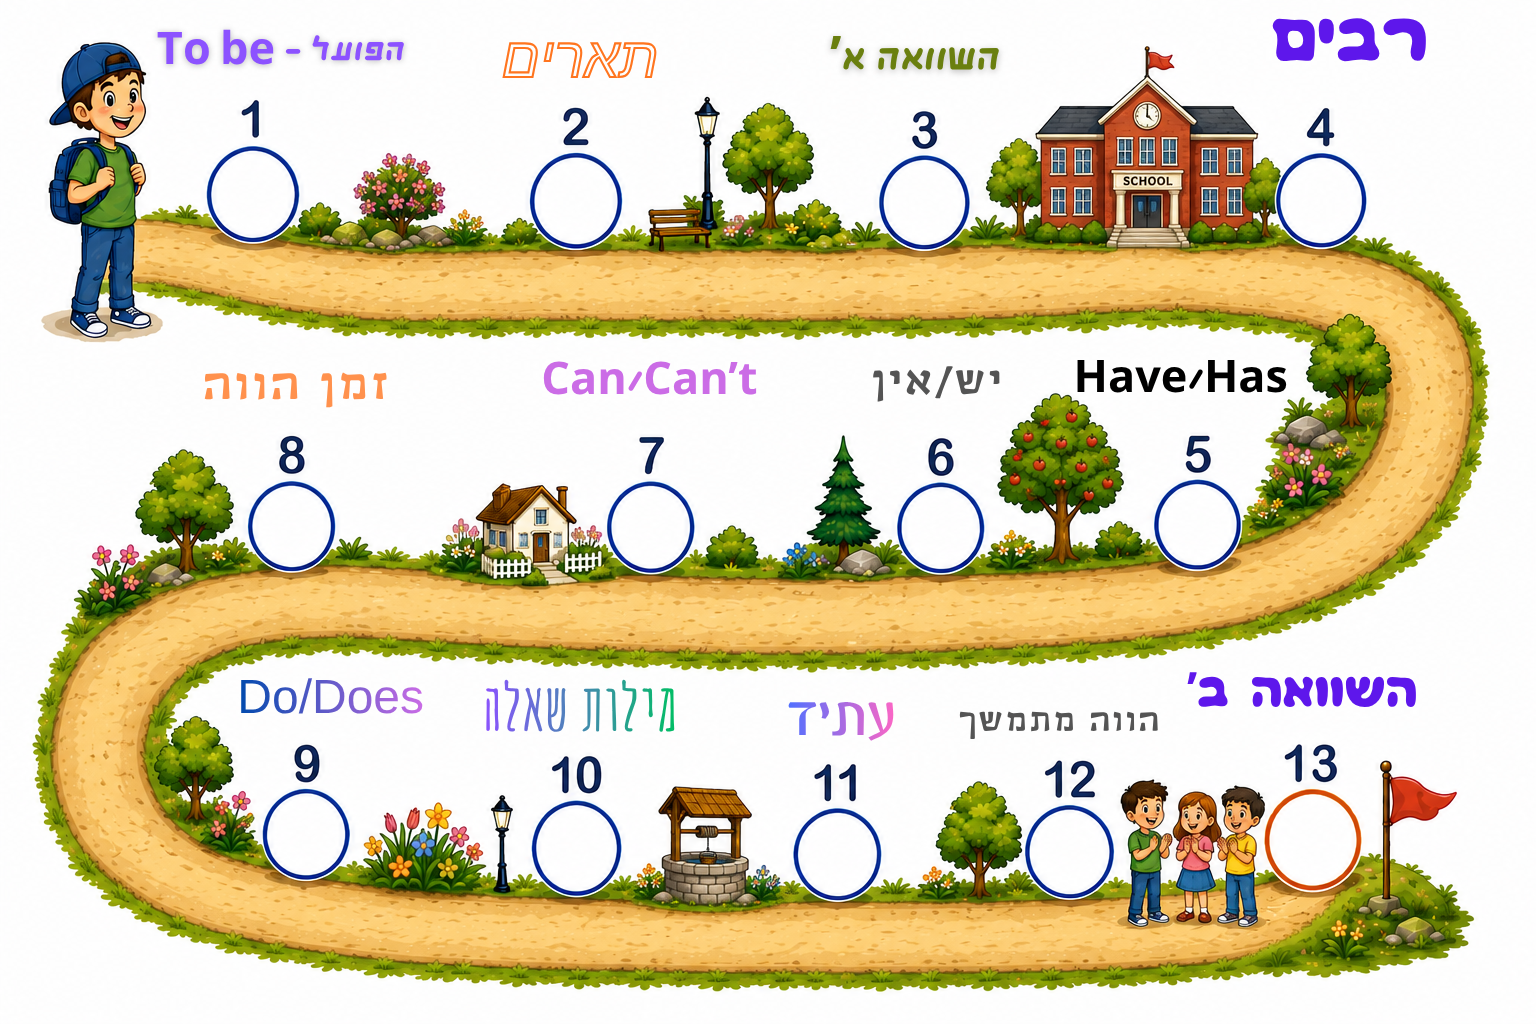
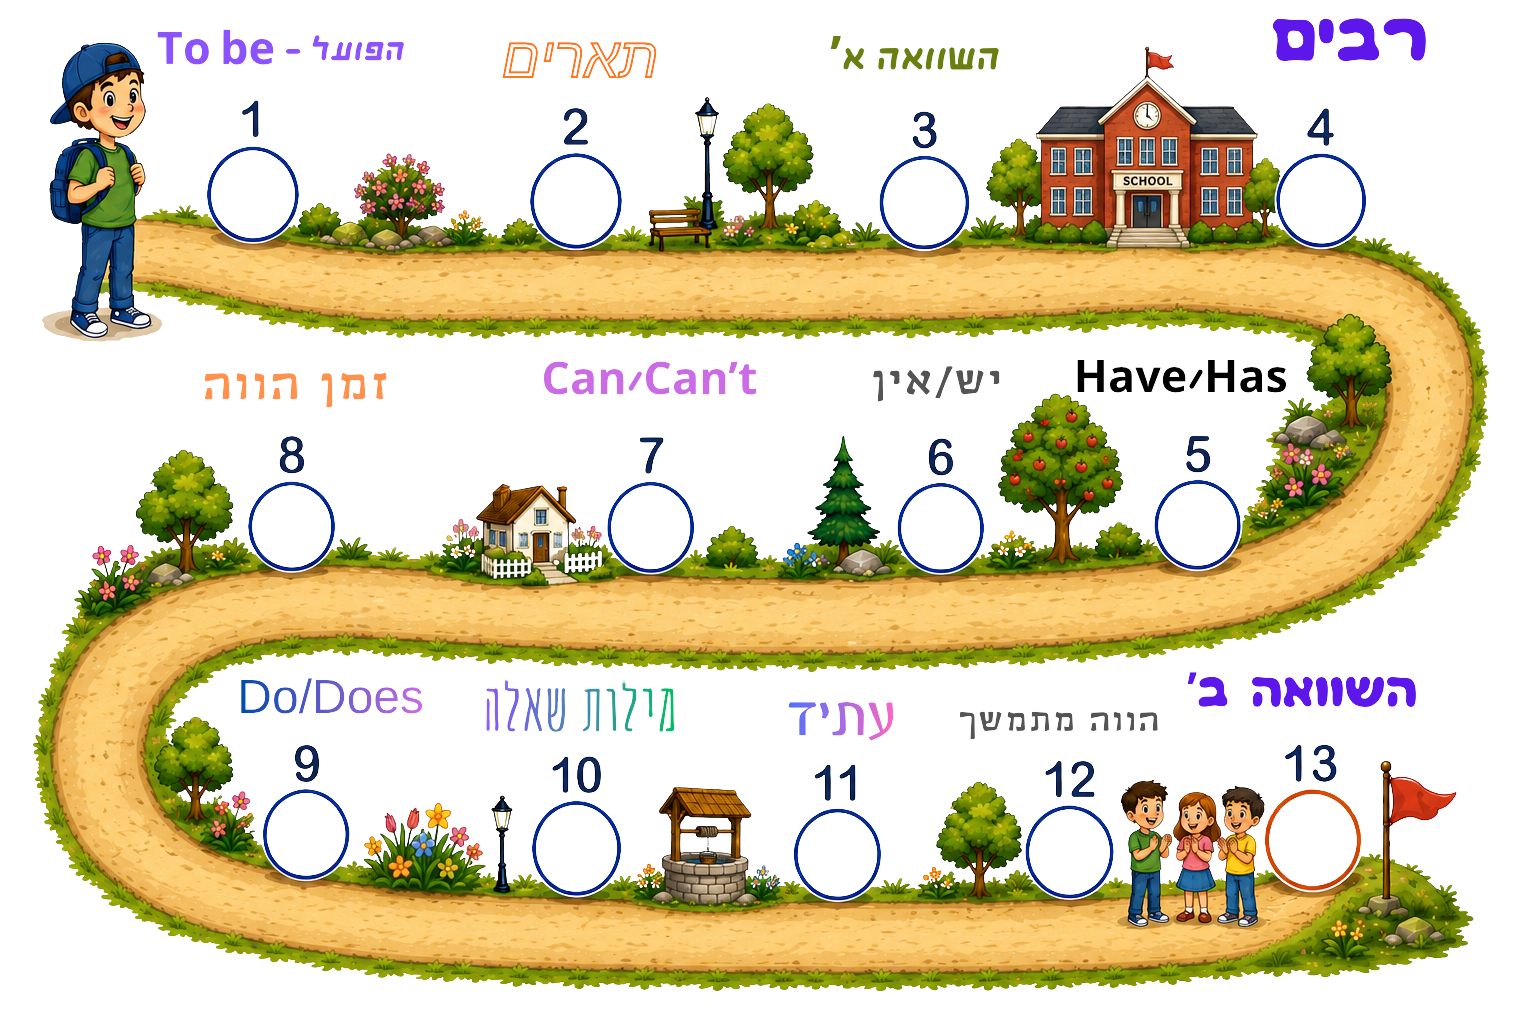
feat: update grammar map to transparent background, remove all buttons

diff --git a/grammar.html b/grammar.html
@@ -1195,61 +1195,9 @@ function initStageCards() {
 
     var loggedIn = typeof getUser === 'function' && !!getUser();
 
-    // cx/cy = מרכז העיגול בפיקסלים בתמונה המקורית (1536×1024)
-    // ~ = הערכה ראשונית, לכיול עם כלי הכיול
-    var STAGES = [
-        { gi:12, emoji:'🧺', cx: 240, cy:215, icon:'images/grammar/icons/1.png' }, // שלב 1
-        { gi:4,  emoji:'🎁', cx: 545, cy:215, icon:'images/grammar/icons/2.png' }, // שלב 2
-        { gi:17, emoji:'🏆', cx: 855, cy:215, icon:'images/grammar/icons/3.png' }, // שלב 3
-        { gi:16, emoji:'⭐', cx:1215, cy:215, icon:'images/grammar/icons/4.png' }, // שלב 4
-        { gi:14, emoji:'💎', cx:1295, cy:455 },                                    // שלב 5
-        { gi:13, emoji:'💡', cx: 990, cy:455 },                                    // שלב 6
-        { gi:2,  emoji:'💪', cx: 665, cy:455 },                                    // שלב 7
-        { gi:0,  emoji:'☀', cx: 235, cy:455 },                                    // שלב 8
-        { gi:1,  emoji:'⚡', cx: 265, cy:730 },                                    // שלב 9
-        { gi:3,  emoji:'🤔', cx: 535, cy:730 },                                    // שלב 10
-        { gi:5,  emoji:'🚀', cx: 800, cy:730 },                                    // שלב 11
-        { gi:15, emoji:'🔄', cx:1060, cy:730 },                                    // שלב 12
-        { gi:18, emoji:'🥇', cx:1330, cy:730 },                                    // שלב 13
-    ];
-
-    var R = 62;
-    var svgBtns = STAGES.map(function(s) {
-        var done   = loggedIn && typeof getStageStatus === 'function' && getStageStatus('grammar', s.gi) === 'complete';
-        var locked = FREE_GRAMMAR_INDICES.indexOf(s.gi) === -1 && !isPremium();
-        var click  = locked ? 'showPaywall()' : 'openLesson(' + s.gi + ')';
-        var cls    = 'ms-btn' + (locked ? ' ms-locked' : '');
-
-        // שטח לחיצה שקוף
-        var hitArea = '<circle cx="' + s.cx + '" cy="' + s.cy + '" r="' + R + '" fill="rgba(255,255,255,0.05)"/>';
-
-        // תוכן: תמונה / אמוג'י / מנעול
-        var iSize = R * 1.55, iHalf = iSize / 2;
-        var content = locked
-            ? '<circle cx="' + s.cx + '" cy="' + s.cy + '" r="' + R + '" fill="rgba(15,23,42,0.5)"/>' +
-              '<text x="' + s.cx + '" y="' + (s.cy+8) + '" text-anchor="middle" dominant-baseline="middle" font-size="42" font-family="inherit">🔒</text>'
-            : (s.icon
-                ? '<image href="' + s.icon + '" x="' + (s.cx-iHalf) + '" y="' + (s.cy-iHalf) + '" width="' + iSize + '" height="' + iSize + '" preserveAspectRatio="xMidYMid meet"/>'
-                : '<text x="' + s.cx + '" y="' + (s.cy+8) + '" text-anchor="middle" dominant-baseline="middle" font-size="46" font-family="inherit">' + s.emoji + '</text>');
-
-        // ✓ ירוק אם הסתיים
-        var doneBadge = done
-            ? '<circle cx="' + (s.cx+R*0.65) + '" cy="' + (s.cy-R*0.65) + '" r="18" fill="#22c55e"/>' +
-              '<text x="' + (s.cx+R*0.65) + '" y="' + (s.cy-R*0.65) + '" text-anchor="middle" dominant-baseline="middle" fill="white" font-size="15" font-weight="900" font-family="inherit">✓</text>'
-            : '';
-
-        return '<g class="' + cls + '" onclick="' + click + '">' +
-            hitArea + content + doneBadge +
-        '</g>';
-    }).join('');
-
     var svg = '<svg class="map-svg" viewBox="0 0 1536 1024" xmlns="http://www.w3.org/2000/svg" id="mapSvg">' +
         '<rect id="svgCalibOverlay" x="0" y="0" width="1536" height="1024" fill="rgba(0,0,0,0.01)" style="display:none;cursor:crosshair"/>' +
-        svgBtns + '</svg>' +
-        '<div style="text-align:center;margin-top:0.5rem">' +
-        '<button onclick="toggleMapCalib()" id="calibBtn" style="background:#0f172a;color:#fff;border:none;border-radius:8px;padding:0.4rem 1rem;font-size:0.8rem;cursor:pointer;opacity:0.5">🎯 מצב כיול (לשימוש פנימי)</button>' +
-        '<div id="calibLabel" style="display:none;margin-top:0.4rem;background:#0f172a;color:#fff;padding:0.4rem 1rem;border-radius:8px;font-size:1rem;font-weight:700;display:inline-block"></div>' +
-        '</div>';
+        '</svg>';
 
     document.getElementById('grammarNav').innerHTML = stageNav;
     document.getElementById('grammarStageCards').innerHTML =
